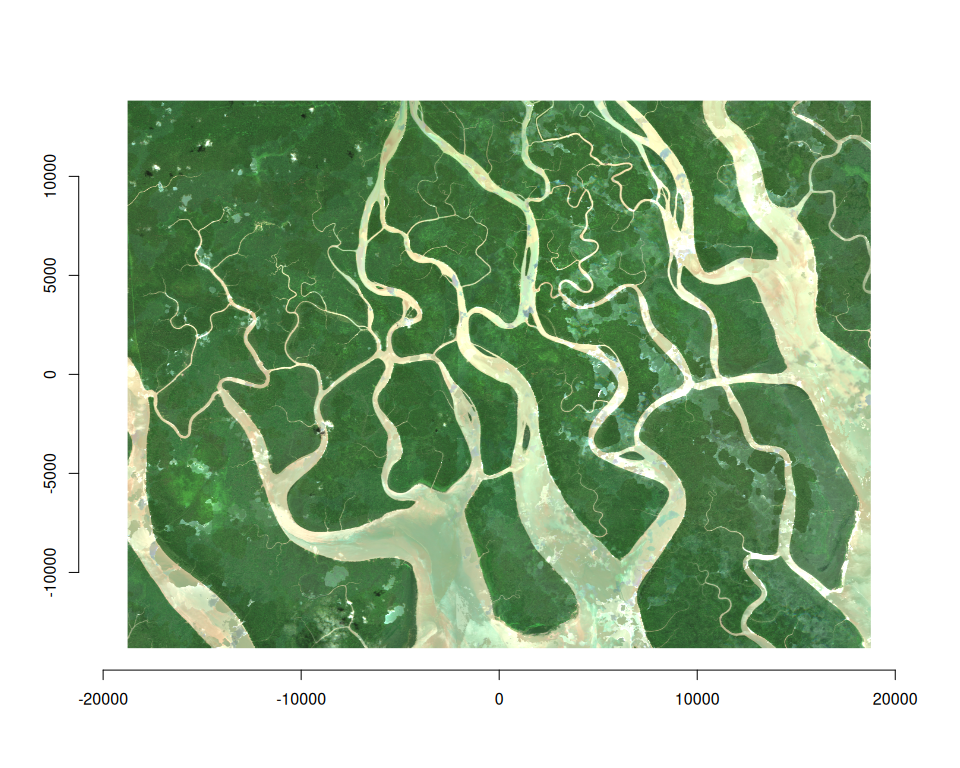
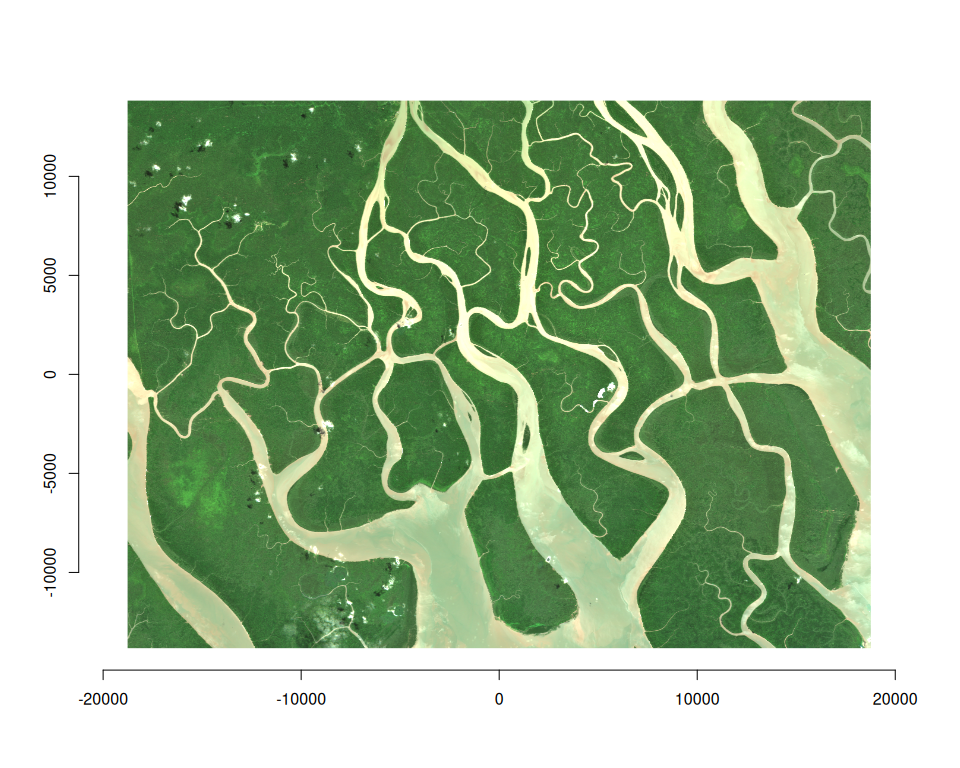
readme update

diff --git a/README.md b/README.md
@@ -109,12 +109,12 @@ s2_stac <- sentinel2_stac_query(
   bbox = bbox,
   start_date = "2023-01-01",
   end_date = "2023-12-31",
-  max_cloud_cover = 35,
+  max_cloud_cover = 20,
   assets = c("B02", "B03", "B04", "SCL")
 )
 # number of items:
 length(s2_stac$features)
-#> [1] 14
+#> [1] 3
 ```
 
 ``` r
@@ -134,7 +134,7 @@ system.time({
     )
 })
 #>    user  system elapsed 
-#>   5.522   0.457  48.981
+#>   3.499   0.274  16.198
 ```
 
 ``` r
